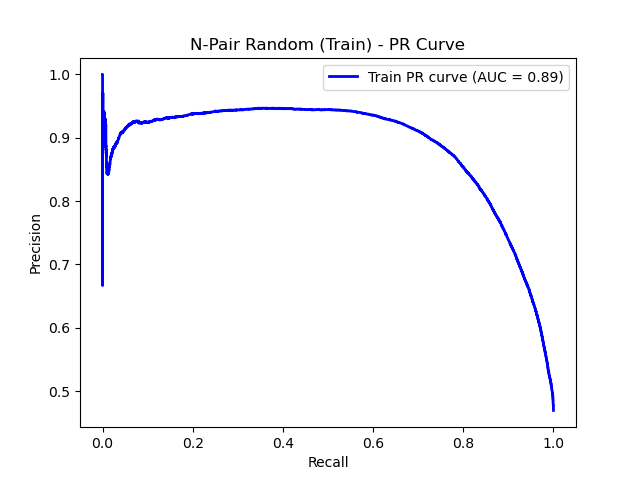
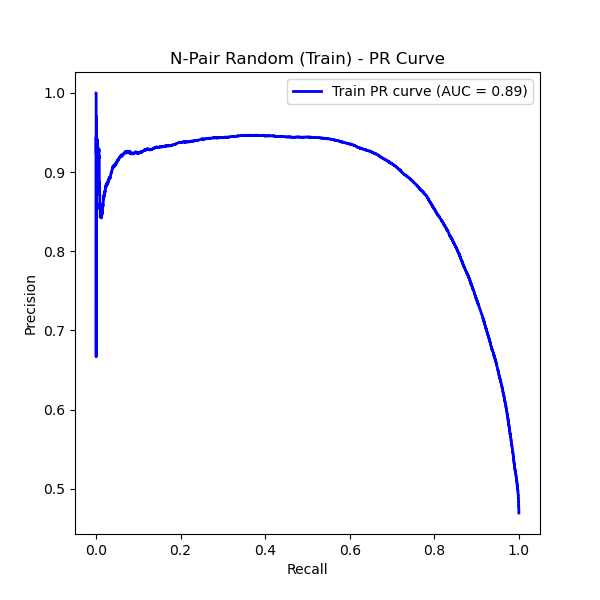
enlarged figure sizes cuz i couldnt see anything

diff --git a/triplets-random/evals/generate_curves.py b/triplets-random/evals/generate_curves.py
@@ -52,9 +52,10 @@ baseline_fpr, baseline_tpr, _ = roc_curve(baseline_labels, -baseline_scores)
 baseline_roc_auc = auc(baseline_fpr, baseline_tpr)
 
 # Plot Train ROC curve
-plt.figure()
+plt.figure(figsize=(6, 6))
 plt.plot(train_fpr, train_tpr, color='blue', lw=2, label=f'Train ROC curve (AUC = {train_roc_auc:.2f})')
 plt.plot(baseline_fpr, baseline_tpr, color='red', lw=2, label=f'Baseline ROC curve (AUC = {baseline_roc_auc:.2f})')
+plt.plot([0, 1], [0, 1], color='gray', lw=2, linestyle='--', label='Random Classifier')
 plt.xlabel('False Positive Rate')
 plt.ylabel('True Positive Rate')
 plt.title('Triplets Random (Train) - ROC Curve')
@@ -63,9 +64,10 @@ plt.savefig('roc_curve_train.png')
 plt.close()
 
 # Plot Test ROC curve
-plt.figure()
+plt.figure(figsize=(6, 6))
 plt.plot(test_fpr, test_tpr, color='green', lw=2, label=f'Test ROC curve (AUC = {test_roc_auc:.2f})')
 plt.plot(baseline_fpr, baseline_tpr, color='red', lw=2, label=f'Baseline ROC curve (AUC = {baseline_roc_auc:.2f})')
+plt.plot([0, 1], [0, 1], color='gray', lw=2, linestyle='--', label='Random Classifier')
 plt.xlabel('False Positive Rate')
 plt.ylabel('True Positive Rate')
 plt.title('Triplets Random (Test) - ROC Curve')
@@ -87,7 +89,7 @@ test_precision, test_recall, _ = precision_recall_curve(triplets_rand_test_label
 test_pr_auc = auc(test_recall, test_precision)
 
 # Plot PR curve
-plt.figure()
+plt.figure(figsize=(6, 6))
 plt.plot(train_recall, train_precision, color='blue', lw=2, label=f'Train PR curve (AUC = {train_pr_auc:.2f})')
 plt.xlabel('Recall')
 plt.ylabel('Precision')
@@ -97,7 +99,7 @@ plt.savefig('pr_curve_train.png')
 plt.close()
 
 # Plot Test PR curve
-plt.figure()
+plt.figure(figsize=(6, 6))
 plt.plot(test_recall, test_precision, color='green', lw=2, label=f'Test PR curve (AUC = {test_pr_auc:.2f})')
 plt.xlabel('Recall')
 plt.ylabel('Precision')
@@ -113,7 +115,7 @@ print("Generated PR curves.")
 # ------------------------------------------------------------------------------------------------  
 
 # Generate histogram of scores by label
-plt.figure(figsize=(10, 6))
+plt.figure(figsize=(6, 6))
 h1 = plt.hist(triplets_rand_train_scores[triplets_rand_train_labels == 1], bins=100, color='blue', alpha=0.5, label='Positive Scores', density=True)
 h2 = plt.hist(triplets_rand_train_scores[triplets_rand_train_labels == 0], bins=100, color='orange', alpha=0.5, label='Negative Scores', density=True)
 plt.xlabel('Scores')
@@ -130,7 +132,7 @@ plt.savefig('score_histogram_train.png')
 plt.close()
 
 # Generate histogram of scores by label
-plt.figure(figsize=(10, 6))
+plt.figure(figsize=(6, 6))
 h1 = plt.hist(triplets_rand_test_scores[triplets_rand_test_labels == 1], bins=100, color='blue', alpha=0.5, label='Positive Scores', density=True)
 h2 = plt.hist(triplets_rand_test_scores[triplets_rand_test_labels == 0], bins=100, color='orange', alpha=0.5, label='Negative Scores', density=True)
 plt.xlabel('Scores')

diff --git a/triplets-hard/evals/generate_curves.py b/triplets-hard/evals/generate_curves.py
@@ -52,9 +52,10 @@ baseline_fpr, baseline_tpr, _ = roc_curve(baseline_labels, -baseline_scores)
 baseline_roc_auc = auc(baseline_fpr, baseline_tpr)
 
 # Plot Train ROC curve
-plt.figure()
+plt.figure(figsize=(6, 6))
 plt.plot(train_fpr, train_tpr, color='blue', lw=2, label=f'Train ROC curve (AUC = {train_roc_auc:.2f})')
 plt.plot(baseline_fpr, baseline_tpr, color='red', lw=2, label=f'Baseline ROC curve (AUC = {baseline_roc_auc:.2f})')
+plt.plot([0, 1], [0, 1], color='gray', lw=2, linestyle='--', label='Random Classifier')
 plt.xlabel('False Positive Rate')
 plt.ylabel('True Positive Rate')
 plt.title('Triplets Hard (Train) - ROC Curve')
@@ -63,9 +64,10 @@ plt.savefig('roc_curve_train.png')
 plt.close()
 
 # Plot Test ROC curve
-plt.figure()
+plt.figure(figsize=(6, 6))
 plt.plot(test_fpr, test_tpr, color='green', lw=2, label=f'Test ROC curve (AUC = {test_roc_auc:.2f})')
 plt.plot(baseline_fpr, baseline_tpr, color='red', lw=2, label=f'Baseline ROC curve (AUC = {baseline_roc_auc:.2f})')
+plt.plot([0, 1], [0, 1], color='gray', lw=2, linestyle='--', label='Random Classifier')
 plt.xlabel('False Positive Rate')
 plt.ylabel('True Positive Rate')
 plt.title('Triplets Hard (Test) - ROC Curve')
@@ -87,7 +89,7 @@ test_precision, test_recall, _ = precision_recall_curve(triplets_hard_test_label
 test_pr_auc = auc(test_recall, test_precision)
 
 # Plot PR curve
-plt.figure()
+plt.figure(figsize=(6, 6))
 plt.plot(train_recall, train_precision, color='blue', lw=2, label=f'Train PR curve (AUC = {train_pr_auc:.2f})')
 plt.xlabel('Recall')
 plt.ylabel('Precision')
@@ -97,7 +99,7 @@ plt.savefig('pr_curve_train.png')
 plt.close()
 
 # Plot Test PR curve
-plt.figure()
+plt.figure(figsize=(6, 6))
 plt.plot(test_recall, test_precision, color='green', lw=2, label=f'Test PR curve (AUC = {test_pr_auc:.2f})')
 plt.xlabel('Recall')
 plt.ylabel('Precision')
@@ -113,7 +115,7 @@ print("Generated PR curves.")
 # ------------------------------------------------------------------------------------------------  
 
 # Generate histogram of scores by label
-plt.figure(figsize=(10, 6))
+plt.figure(figsize=(6, 6))
 h1 = plt.hist(triplets_hard_train_scores[triplets_hard_train_labels == 1], bins=100, color='blue', alpha=0.5, label='Positive Scores', density=True)
 h2 = plt.hist(triplets_hard_train_scores[triplets_hard_train_labels == 0], bins=100, color='orange', alpha=0.5, label='Negative Scores', density=True)
 plt.xlabel('Scores')
@@ -130,7 +132,7 @@ plt.savefig('score_histogram_train.png')
 plt.close()
 
 # Generate histogram of scores by label
-plt.figure(figsize=(10, 6))
+plt.figure(figsize=(6, 6))
 h1 = plt.hist(triplets_hard_test_scores[triplets_hard_test_labels == 1], bins=100, color='blue', alpha=0.5, label='Positive Scores', density=True)
 h2 = plt.hist(triplets_hard_test_scores[triplets_hard_test_labels == 0], bins=100, color='orange', alpha=0.5, label='Negative Scores', density=True)
 plt.xlabel('Scores')

diff --git a/npair-random/evals/generate_curves.py b/npair-random/evals/generate_curves.py
@@ -52,9 +52,10 @@ baseline_fpr, baseline_tpr, _ = roc_curve(baseline_labels, -baseline_scores)
 baseline_roc_auc = auc(baseline_fpr, baseline_tpr)
 
 # Plot Train ROC curve
-plt.figure()
+plt.figure(figsize=(6, 6))
 plt.plot(train_fpr, train_tpr, color='blue', lw=2, label=f'Train ROC curve (AUC = {train_roc_auc:.2f})')
 plt.plot(baseline_fpr, baseline_tpr, color='red', lw=2, label=f'Baseline ROC curve (AUC = {baseline_roc_auc:.2f})')
+plt.plot([0, 1], [0, 1], color='gray', lw=2, linestyle='--', label='Random Classifier')
 plt.xlabel('False Positive Rate')
 plt.ylabel('True Positive Rate')
 plt.title('N-Pair Random (Train) - ROC Curve')
@@ -63,9 +64,10 @@ plt.savefig('roc_curve_train.png')
 plt.close()
 
 # Plot Test ROC curve
-plt.figure()
+plt.figure(figsize=(6, 6))
 plt.plot(test_fpr, test_tpr, color='green', lw=2, label=f'Test ROC curve (AUC = {test_roc_auc:.2f})')
 plt.plot(baseline_fpr, baseline_tpr, color='red', lw=2, label=f'Baseline ROC curve (AUC = {baseline_roc_auc:.2f})')
+plt.plot([0, 1], [0, 1], color='gray', lw=2, linestyle='--', label='Random Classifier')
 plt.xlabel('False Positive Rate')
 plt.ylabel('True Positive Rate')
 plt.title('N-Pair Random (Test) - ROC Curve')
@@ -87,7 +89,7 @@ test_precision, test_recall, _ = precision_recall_curve(npair_test_labels, -npai
 test_pr_auc = auc(test_recall, test_precision)
 
 # Plot PR curve
-plt.figure()
+plt.figure(figsize=(6, 6))
 plt.plot(train_recall, train_precision, color='blue', lw=2, label=f'Train PR curve (AUC = {train_pr_auc:.2f})')
 plt.xlabel('Recall')
 plt.ylabel('Precision')
@@ -97,7 +99,7 @@ plt.savefig('pr_curve_train.png')
 plt.close()
 
 # Plot Test PR curve
-plt.figure()
+plt.figure(figsize=(6, 6))
 plt.plot(test_recall, test_precision, color='green', lw=2, label=f'Test PR curve (AUC = {test_pr_auc:.2f})')
 plt.xlabel('Recall')
 plt.ylabel('Precision')
@@ -113,7 +115,7 @@ print("Generated PR curves.")
 # ------------------------------------------------------------------------------------------------  
 
 # Generate histogram of scores by label
-plt.figure(figsize=(10, 6))
+plt.figure(figsize=(6, 6))
 h1 = plt.hist(npair_train_scores[npair_train_labels == 1], bins=100, color='blue', alpha=0.5, label='Positive Scores', density=True)
 h2 = plt.hist(npair_train_scores[npair_train_labels == 0], bins=100, color='orange', alpha=0.5, label='Negative Scores', density=True)
 plt.xlabel('Scores')
@@ -130,7 +132,7 @@ plt.savefig('score_histogram_train.png')
 plt.close()
 
 # Generate histogram of scores by label
-plt.figure(figsize=(10, 6))
+plt.figure(figsize=(6, 6))
 h1 = plt.hist(npair_test_scores[npair_test_labels == 1], bins=100, color='blue', alpha=0.5, label='Positive Scores', density=True)
 h2 = plt.hist(npair_test_scores[npair_test_labels == 0], bins=100, color='orange', alpha=0.5, label='Negative Scores', density=True)
 plt.xlabel('Scores')

diff --git a/baseline/evals/generate_curves.py b/baseline/evals/generate_curves.py
@@ -25,13 +25,13 @@ fpr, tpr, _ = roc_curve(labels, -scores)
 roc_auc = auc(fpr, tpr)
 
 # Plot ROC curve
-plt.figure()
+plt.figure(figsize=(6, 6))
 plt.plot(fpr, tpr, color='blue', lw=2, label=f'ROC curve (AUC = {roc_auc:.2f})')
-plt.plot([0, 1], [0, 1], color='gray', lw=2, linestyle='--')
-plt.xlabel('False Positive Rate')
-plt.ylabel('True Positive Rate')
-plt.title('Baseline - ROC Curve')
-plt.legend(loc="lower right")
+plt.plot([0, 1], [0, 1], color='gray', lw=2, linestyle='--', label='Random Classifier')
+plt.xlabel('False Positive Rate', fontsize=12)
+plt.ylabel('True Positive Rate', fontsize=12)
+plt.title('Baseline - ROC Curve', fontsize=14)
+plt.legend(loc="lower right", fontsize=12)
 plt.savefig('roc_curve.png')
 plt.close()
 
@@ -44,15 +44,16 @@ print("Generated ROC curve.")
 # Compute PR curve and PR area
 precision, recall, _ = precision_recall_curve(labels, -scores)
 pr_auc = auc(recall, precision)
+pr_base = 1/2816
 
 # Plot PR curve
-plt.figure(figsize=(10, 6))
+plt.figure(figsize=(6, 6))
 plt.plot(recall, precision, color='blue', lw=2, label=f'Baseline PR curve (AUC = {pr_auc:.2f})')
-plt.plot([0, 1], [1, 0], color='gray', linestyle='--', label='Random Classifier')
-plt.xlabel('Recall')
-plt.ylabel('Precision')
-plt.title('Baseline - Precision-Recall Curve')
-plt.legend(loc="upper right")
+plt.plot([0, 1], [pr_base, pr_base], color='gray', linestyle='--', label='Random Classifier')
+plt.xlabel('Recall', fontsize=12)
+plt.ylabel('Precision', fontsize=12)
+plt.title('Baseline - Precision-Recall Curve', fontsize=14)
+plt.legend(loc="upper right", fontsize=12)
 plt.xlim([0.0, 1.0])
 plt.ylim([0.0, 1.05])
 plt.grid(True)
@@ -66,13 +67,13 @@ print(f"Generated PR curve with AUC = {pr_auc:.4f}")
 # ------------------------------------------------------------------------------------------------  
 
 # Generate histogram of scores by label
-plt.figure(figsize=(10, 6))
+plt.figure(figsize=(6, 6))
 h1 = plt.hist(scores[labels == 1], bins=100, color='blue', alpha=0.5, label='Positive Scores', density=True)
 h2 = plt.hist(scores[labels == 0], bins=100, color='orange', alpha=0.5, label='Negative Scores', density=True)
-plt.xlabel('Scores')
-plt.ylabel('Density')
-plt.title('Baseline - Distribution of Scores by Label')
-plt.legend()
+plt.xlabel('Scores', fontsize=12)
+plt.ylabel('Density', fontsize=12)
+plt.title('Baseline - Distribution of Scores by Label', fontsize=14)
+plt.legend(fontsize=12)
 
 # Trace lines through the top of the histogram
 max_height = max(max(h1[0]), max(h2[0]))
